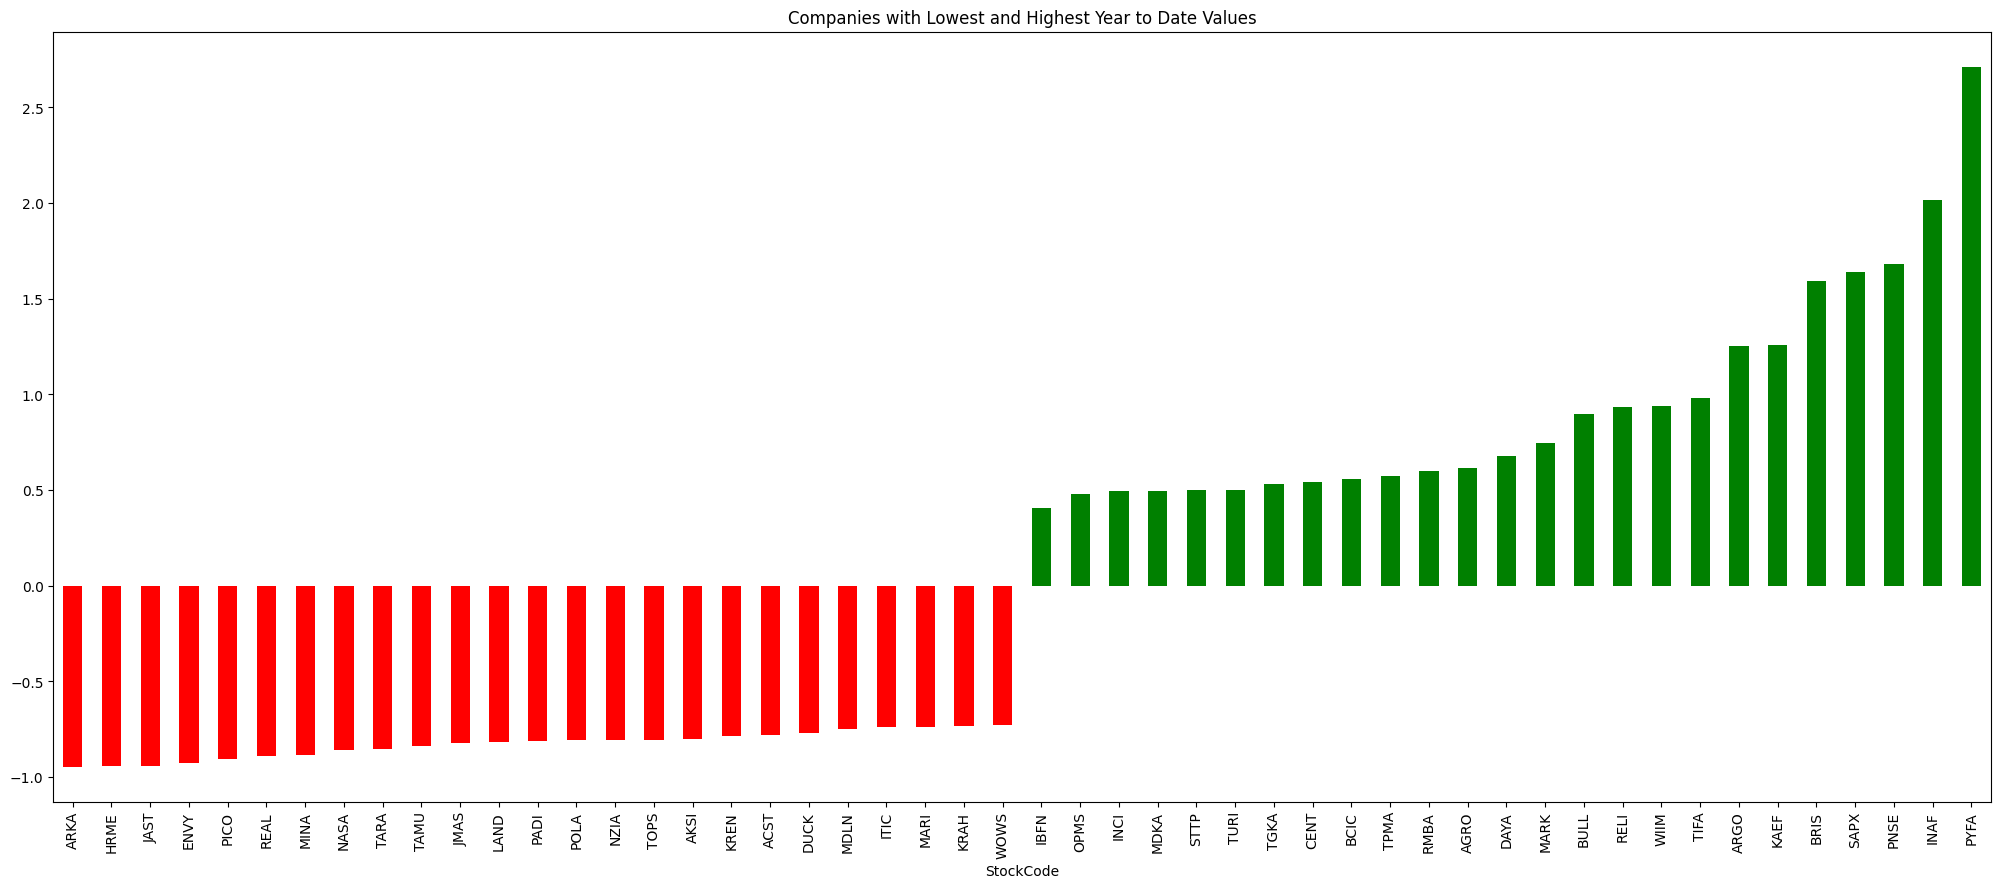
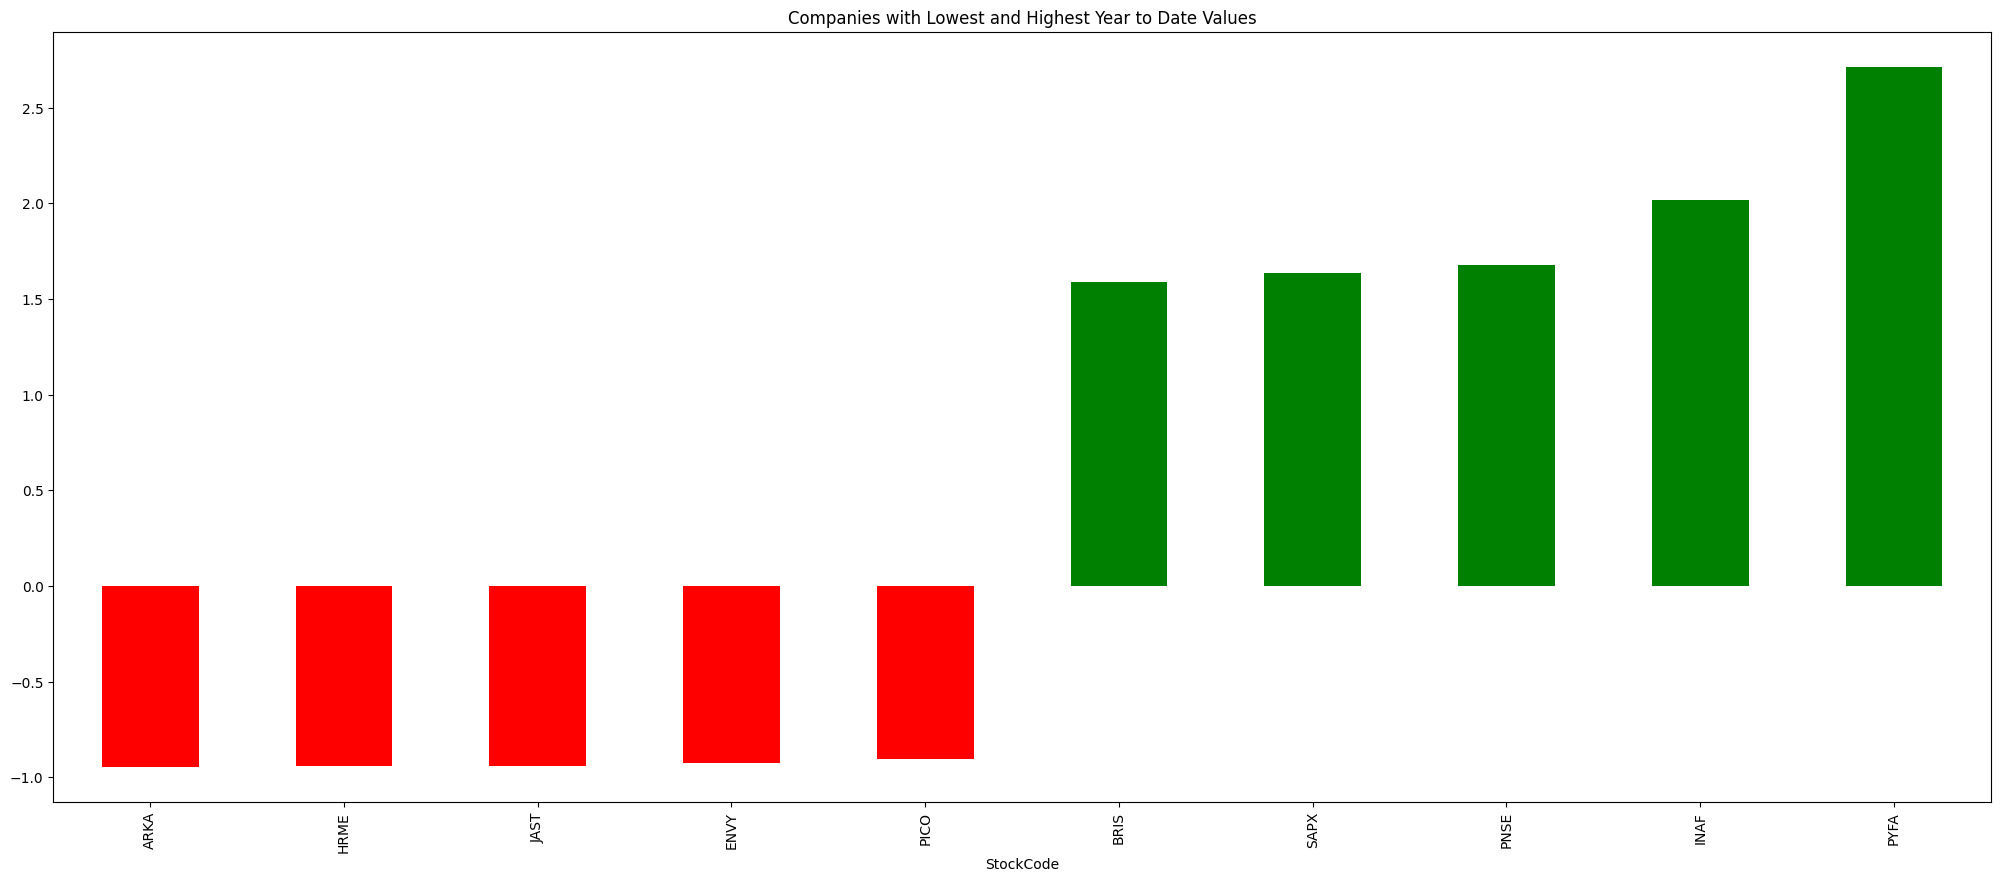
modify plot examples

Changed region(s): [[0.0, 0.0612, 0.992, 1.0]]

diff --git a/indonesia_stock_exchange.py b/indonesia_stock_exchange.py
@@ -14,35 +14,6 @@ def dataframe():
     
     return df
 
-def trend(df, min_date='2015-01-01', max_date=date.today().strftime('%Y-%m-%d'), number_ticker=1):
-    df = df[(df['Date'] >= min_date) & (df['Date'] <= max_date)]
-    df['Date'] = df.apply(lambda x: x['Date'][:10], axis=1).copy()
-    df = df.set_index('Date')
-    fig, ax = plt.subplots()
-    plt.tick_params(axis='both', which='major', labelsize=12)
-    ticker = df.StockCode.to_list()
-    ticker = [ticker[randint(0, len(ticker))] for i in range(number_ticker)]
-    [df[df['StockCode'] == x].Close.plot(figsize=(25, 10), ax=ax) for x in ticker]
-    ax.legend(ticker, fontsize=12, loc='upper right')
-    plt.title(f'Stock prices of {number_ticker} companies', fontsize=20)
-    plt.xlabel('Percentage changes', fontsize=12)
-    plt.ylabel('Density', fontsize=12)
-    return plt.savefig(f'img/trend-line.png', bbox_inches = 'tight')
-    
-    
-def density(df, number_ticker):
-    df['change_percent'] = (df.Close - df.Previous) / df.Close
-    fig, ax = plt.subplots()
-    plt.tick_params(axis='both', which='major', labelsize=12)
-    ticker = df.StockCode.to_list()
-    ticker = [ticker[randint(0, len(ticker))] for i in range(number_ticker)]
-    [df[df['StockCode'] == x].change_percent.plot(kind='density', figsize=(25, 10), ax=ax) for x in ticker]
-    ax.legend(ticker, fontsize=12)
-    plt.title(f'Distributions of percentage changes of {number_ticker} companies', fontsize=20)
-    plt.xlabel('Percentage changes', fontsize=12)
-    plt.ylabel('Density', fontsize=12)
-    return plt.savefig(f'img/density.png', bbox_inches = 'tight')
-    
 def get_close(df, year, date_col, close_col, is_min=True):
     df = df[df['Year'] == year]
     if is_min:
@@ -62,13 +33,50 @@ def get_ytd(df):
     
     return ytd
 
+def trend(df, title, min_date='2015-01-01', max_date=date.today().strftime('%Y-%m-%d'), ascending=False):
+    # get ticker list
+    ytd = get_ytd(df)
+    func_ytd = lambda df, asc: df.sort_values(by='ytd', ascending=asc)[:5]
+    ticker = func_ytd(ytd, ascending).StockCode.to_list()
+    
+    # transform
+    df = df[(df['Date'] >= min_date) & (df['Date'] <= max_date)]
+    df['Date'] = df.apply(lambda x: x['Date'][:10], axis=1).copy()
+    df = df.set_index('Date')
+    
+    # visualize
+    fig, ax = plt.subplots()
+    plt.tick_params(axis='both', which='major', labelsize=12)
+    
+    [df[df['StockCode'] == x].Close.plot(figsize=(25, 10), ax=ax) for x in ticker]
+    ax.legend(ticker, fontsize=12, loc='upper right')
+    plt.title(title, fontsize=20)
+    plt.xlabel('Period', fontsize=12)
+    plt.ylabel('Price per Share', fontsize=12)
+    return plt.savefig(f'img/trend-line-ascending-{ascending}.png', bbox_inches = 'tight')
+    
+    
+def density(df, number_ticker):
+    df['change_percent'] = (df.Close - df.Previous) / df.Close
+    fig, ax = plt.subplots()
+    plt.tick_params(axis='both', which='major', labelsize=12)
+    ticker = df.StockCode.to_list()
+    ticker = [ticker[randint(0, len(ticker))] for i in range(number_ticker)]
+    [df[df['StockCode'] == x].change_percent.plot(kind='density', figsize=(25, 10), ax=ax) for x in ticker]
+    ax.legend(ticker, fontsize=12)
+    plt.title(f'Distributions of percentage changes of {number_ticker} companies', fontsize=20)
+    plt.xlabel('Percentage changes', fontsize=12)
+    plt.ylabel('Density', fontsize=12)
+    return plt.savefig(f'img/density.png', bbox_inches = 'tight')
+    
+
 def histogram():
     get_ytd(dataframe()).ytd.plot(kind='hist', bins=100, figsize=(25, 10), title='Distributions of Year to Date Values', color='gray')
     return plt.savefig(f'img/histogram.png', bbox_inches = 'tight')
 
 def bar(df):
     ytd = get_ytd(df)
-    func_ytd = lambda df, asc: df.sort_values(by='ytd', ascending=asc)[:25]
+    func_ytd = lambda df, asc: df.sort_values(by='ytd', ascending=asc)[:5]
     ytd = pd.concat([func_ytd(ytd, True), func_ytd(ytd, False)])
     ytd = ytd.sort_values(by='ytd', ascending=True)
     ytd = ytd[['StockCode', 'ytd']]
@@ -85,6 +93,7 @@ def bar(df):
     
 if __name__ == '__main__':
     histogram()
-    trend(dataframe(), min_date='2020-01-01', number_ticker=5)
+    trend(dataframe(), 'Trends of Stock Prices with Highest YTD', min_date='2020-01-01', ascending=False)
+    trend(dataframe(), 'Trends of Stock Prices with Lowest YTD', min_date='2020-01-01', ascending=True)
     density(dataframe(), 5)
     bar(dataframe())

diff --git a/README.md b/README.md
@@ -33,7 +33,11 @@ TL;DR: if you don't want to run this locally and just want to go straight to the
 ![histogram](./img/histogram.png)
 
 #### 4. Trend lines
-![trend-line.png](./img/trend-line.png)
+- ##### Highest YTD
+![trend-line-ascending-False](./img/trend-line-ascending-False.png)
+
+- ##### Lowest YTD
+![trend-line-ascending-True](./img/trend-line-ascending-True.png)
 
 # Permission
 How can we be sure that it's totally okay to get the data from the website? Open [<strong>`its robots.txt site`</strong>](https://idx.co.id/robots.txt) and see the following result:
